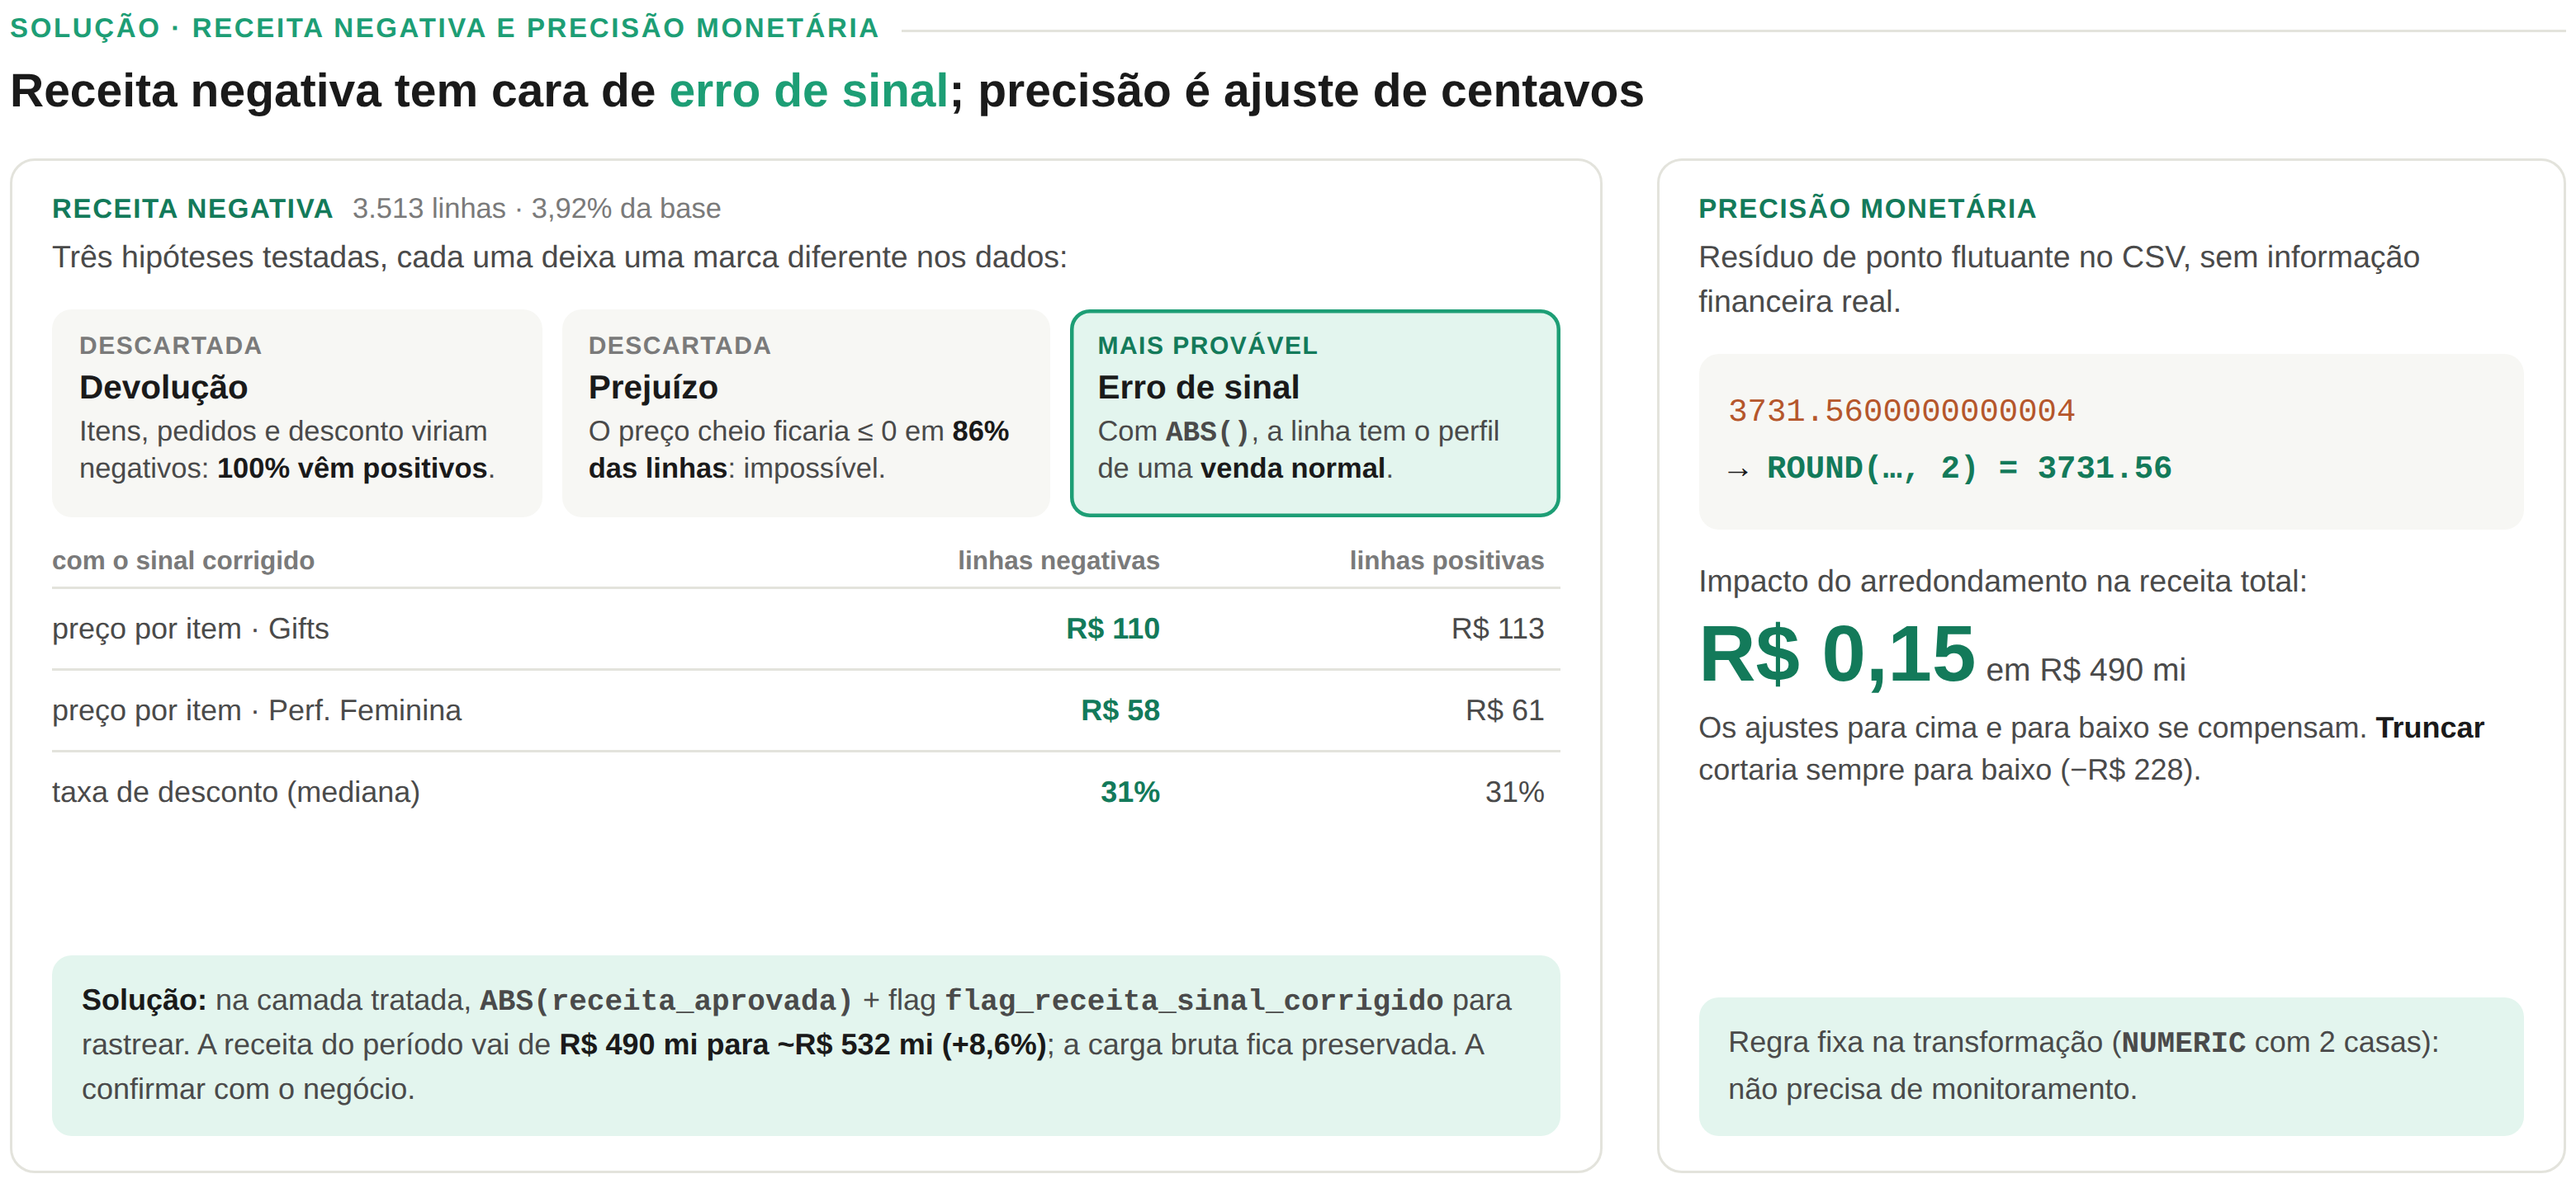
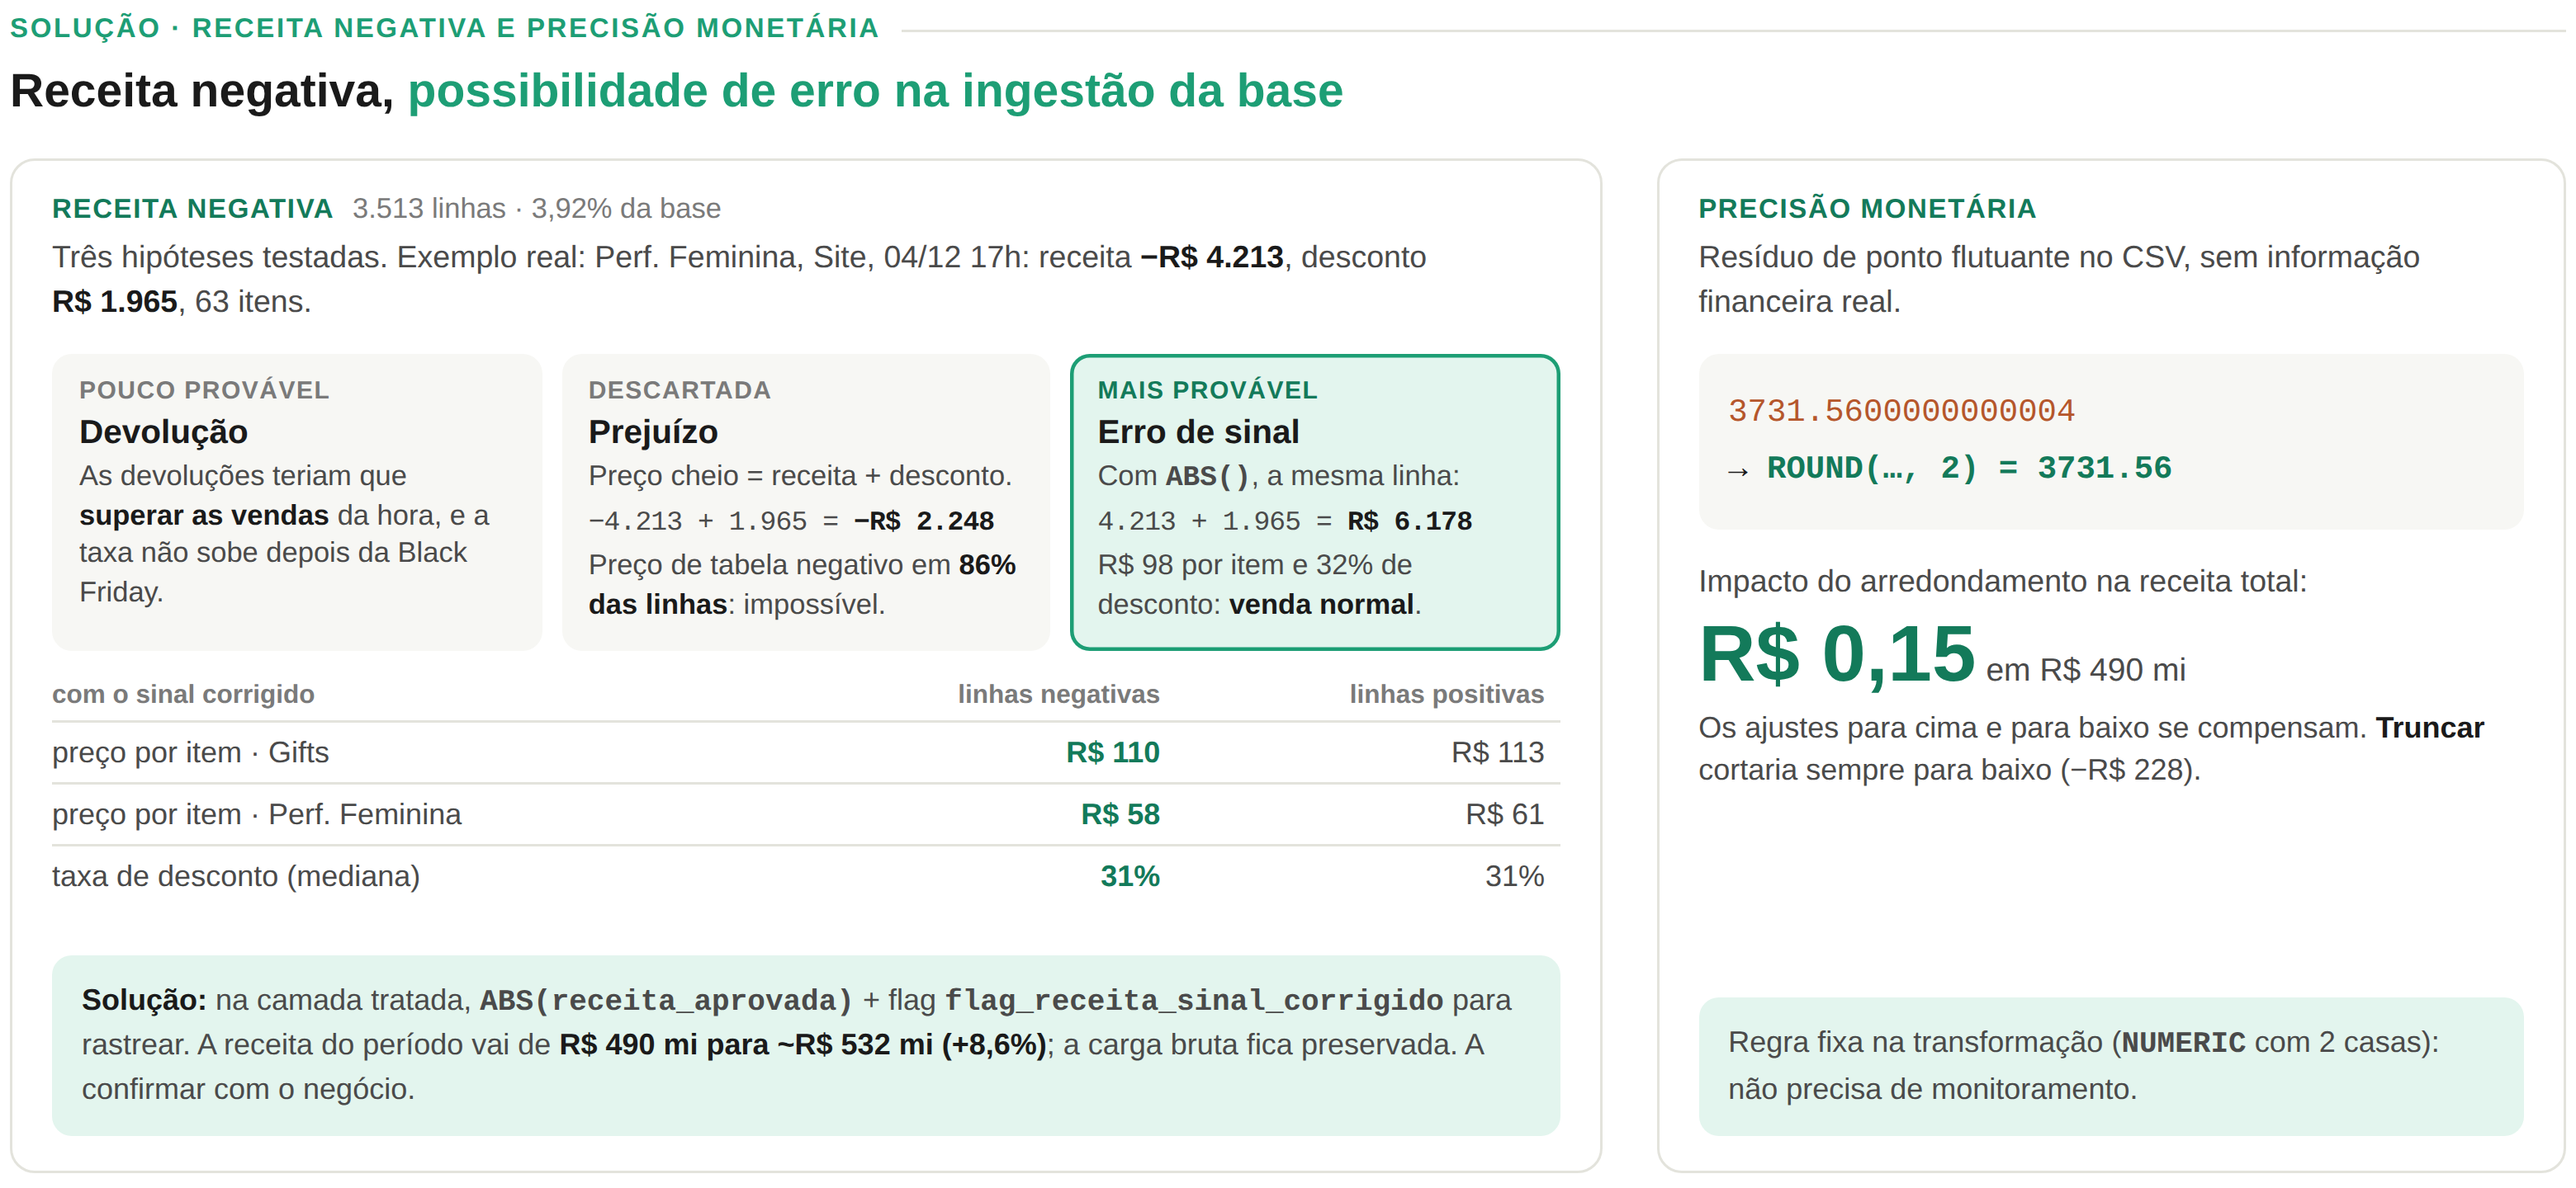
Widget receita negativa: novo título, devolução pouco provável e exemplo do prejuízo
Claude-Session: https://claude.ai/code/session_01NUJZKTcM8cs9QBTcUeuacF

Changed region(s): [[0.1554, 0.1875, 0.6218, 0.75], [0.0, 0.25, 0.1865, 0.75], [0.1554, 0.0625, 0.6529, 0.0938]]

diff --git a/apresentacao/widgets/09_receita_precisao.html b/apresentacao/widgets/09_receita_precisao.html
@@ -30,11 +30,13 @@
   .h h4 { font-size: 13.5px; margin: 3px 0 4px; }
   .h p { font-size: 11.5px; color: var(--tinta-2); line-height: 1.35; }
   .h p b { color: var(--tinta); }
+  .h .ex { display: inline-block; font-family: "Courier New", monospace; font-size: 11px; margin: 3px 0; white-space: nowrap; letter-spacing: -.3px; }
+  .ex-cab { font-size: 11px; color: var(--tinta-3); margin: -4px 0 0; }
 
   .comp { width: 100%; border-collapse: collapse; font-size: 12px; }
   .comp th { text-align: right; font-size: 10.5px; color: var(--tinta-3); padding: 0 6px 4px; font-weight: 700; }
   .comp th:first-child, .comp td:first-child { text-align: left; padding-left: 0; }
-  .comp td { padding: 9px 6px; border-top: 1px solid var(--linha); text-align: right; color: var(--tinta-2); }
+  .comp td { padding: 5px 6px; border-top: 1px solid var(--linha); text-align: right; color: var(--tinta-2); }
   .comp td.n { color: var(--verde-escuro); font-weight: 700; }
 
   .acao { margin-top: auto; background: var(--verde-claro); border-radius: 8px; padding: 10px 12px; font-size: 12px; color: var(--tinta-2); line-height: 1.45; }
@@ -52,15 +54,15 @@
 <body>
 <div class="widget">
   <div class="rotulo">Solução · receita negativa e precisão monetária</div>
-  <h3>Receita negativa tem cara de <span>erro de sinal</span>; precisão é ajuste de centavos</h3>
+  <h3>Receita negativa, <span>possibilidade de erro na ingestão da base</span></h3>
   <div class="colunas">
     <div class="bloco">
       <div class="tit">Receita negativa <small>3.513 linhas · 3,92% da base</small></div>
-      <div class="txt">Três hipóteses testadas, cada uma deixa uma marca diferente nos dados:</div>
+      <div class="txt">Três hipóteses testadas. Exemplo real: Perf. Feminina, Site, 04/12 17h: receita <b>−R$&nbsp;4.213</b>, desconto <b>R$&nbsp;1.965</b>, 63 itens.</div>
       <div class="hip">
-        <div class="h"><div class="sel">Descartada</div><h4>Devolução</h4><p>Itens, pedidos e desconto viriam negativos: <b>100% vêm positivos</b>.</p></div>
-        <div class="h"><div class="sel">Descartada</div><h4>Prejuízo</h4><p>O preço cheio ficaria ≤ 0 em <b>86% das linhas</b>: impossível.</p></div>
-        <div class="h sim"><div class="sel">Mais provável</div><h4>Erro de sinal</h4><p>Com <code>ABS()</code>, a linha tem o perfil de uma <b>venda normal</b>.</p></div>
+        <div class="h"><div class="sel">Pouco provável</div><h4>Devolução</h4><p>As devoluções teriam que <b>superar as vendas</b> da hora, e a taxa não sobe depois da Black Friday.</p></div>
+        <div class="h"><div class="sel">Descartada</div><h4>Prejuízo</h4><p>Preço cheio = receita + desconto.<br><span class="ex">−4.213 + 1.965 = <b>−R$&nbsp;2.248</b></span><br>Preço de tabela negativo em <b>86% das linhas</b>: impossível.</p></div>
+        <div class="h sim"><div class="sel">Mais provável</div><h4>Erro de sinal</h4><p>Com <code>ABS()</code>, a mesma linha:<br><span class="ex">4.213 + 1.965 = <b>R$&nbsp;6.178</b></span><br>R$ 98 por item e 32% de desconto: <b>venda normal</b>.</p></div>
       </div>
       <table class="comp">
         <tr><th>com o sinal corrigido</th><th>linhas negativas</th><th>linhas positivas</th></tr>
